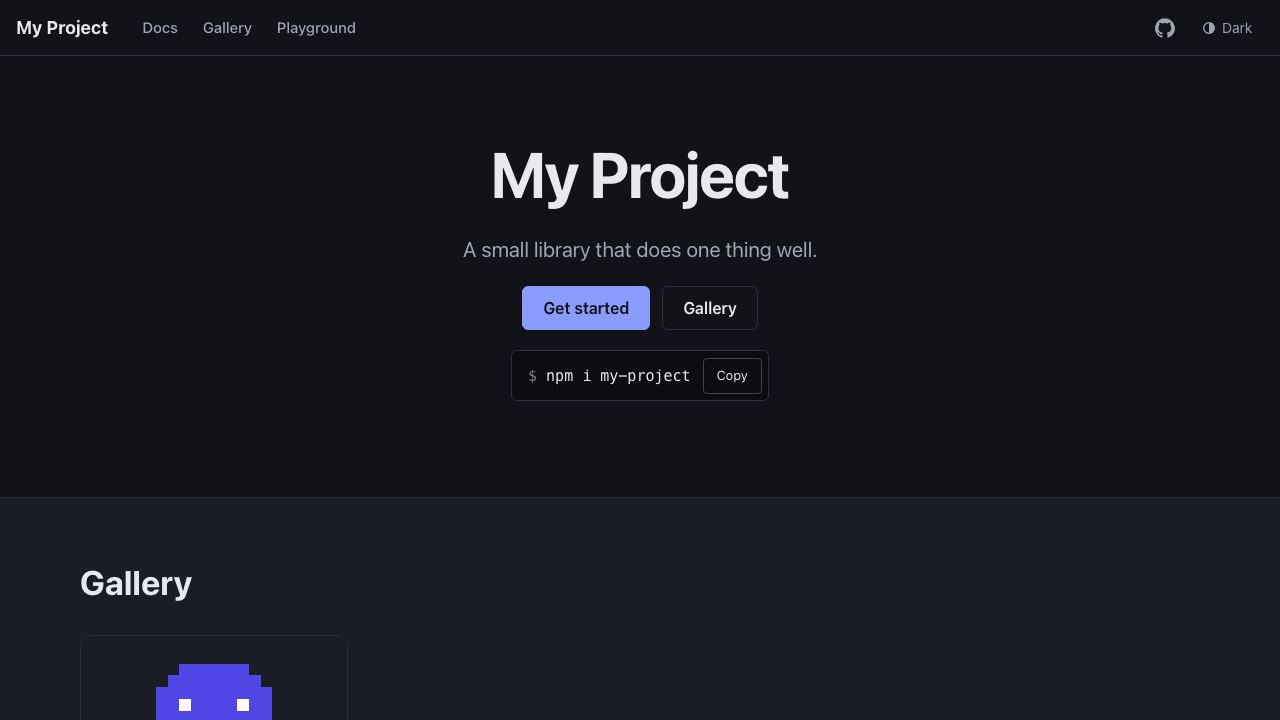
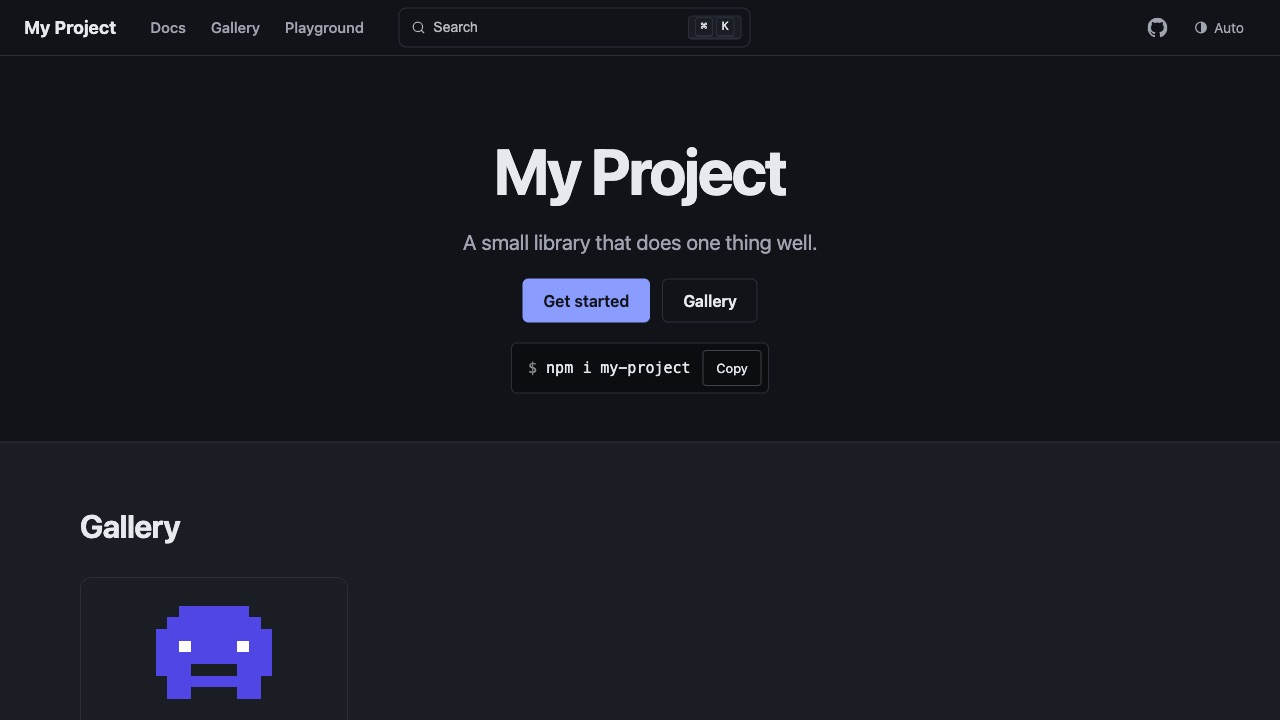
site: the starter is the example, deployed as it is; no example mount in the docs
The starter (starters/default) is deployed unchanged as its own Worker,
project-site-starter. The gallery's "A mounted docs folder" and "The starter"
cards, the landing page's docs demo and the docs text link to it instead of
mounting its example docs into this site under /docs/example/.

Claude-Session: https://claude.ai/code/session_018m2iNfrzwFJF7QnZL2sja3

diff --git a/site/public/landing-assets/runners/docs-mount.js b/site/public/landing-assets/runners/docs-mount.js
@@ -3,7 +3,8 @@
 // relative links sent to the file on GitHub. It follows the rules of the package's docs/mount.mjs (resolveHref), on
 // a file list passed in ctx.options at build time; the markdown renderer is a small one for this demo only.
 //
-// ctx.options: { route, label, repo, branch, dir (mount folder, repo-relative), file (this file, mount-relative),
+// ctx.options: { route, site? (origin of the site serving the pages; default this one), label, repo, branch,
+//                dir (mount folder, repo-relative), file (this file, mount-relative),
 //                files: { [mountRelativePath]: titleSlug | null }, sidebar: [{ label, href, depth }] }
 
 const esc = (s) => String(s).replace(/[&<>"]/g, (c) => ({ '&': '&amp;', '<': '&lt;', '>': '&gt;', '"': '&quot;' })[c]);
@@ -24,7 +25,7 @@ function idFor(o, rel) {
   const parts = rel.replace(/\.md$/i, '').split('/');
   const last = parts.at(-1)?.toLowerCase();
   if (last === 'readme' || last === 'index') parts.pop();
-  return `/docs/${[o.route, ...parts.map(slugify)].filter(Boolean).join('/')}/`;
+  return `${o.site ?? ''}/docs/${[o.route, ...parts.map(slugify)].filter(Boolean).join('/')}/`;
 }
 
 /** { href, kind: 'docs' | 'repo' | 'missing' | 'kept' } for a link written in the current file. */

diff --git a/site/src/lib/starter.ts b/site/src/lib/starter.ts
@@ -1,0 +1,7 @@
+// The starter (starters/default) as `project-site init` copies it, built and deployed unchanged as its own Worker
+// (its wrangler.jsonc name). The gallery and the landing page show it there, rather than mounting its example docs
+// into this site's docs.
+export const STARTER_URL = 'https://project-site-starter.pascaripavel.workers.dev';
+
+/** The starter's `externalDocs` entry for its example docs (starters/default/astro.config.mjs). */
+export const STARTER_MOUNT = { route: 'reference', label: 'Reference', order: ['getting-started.md'] };
